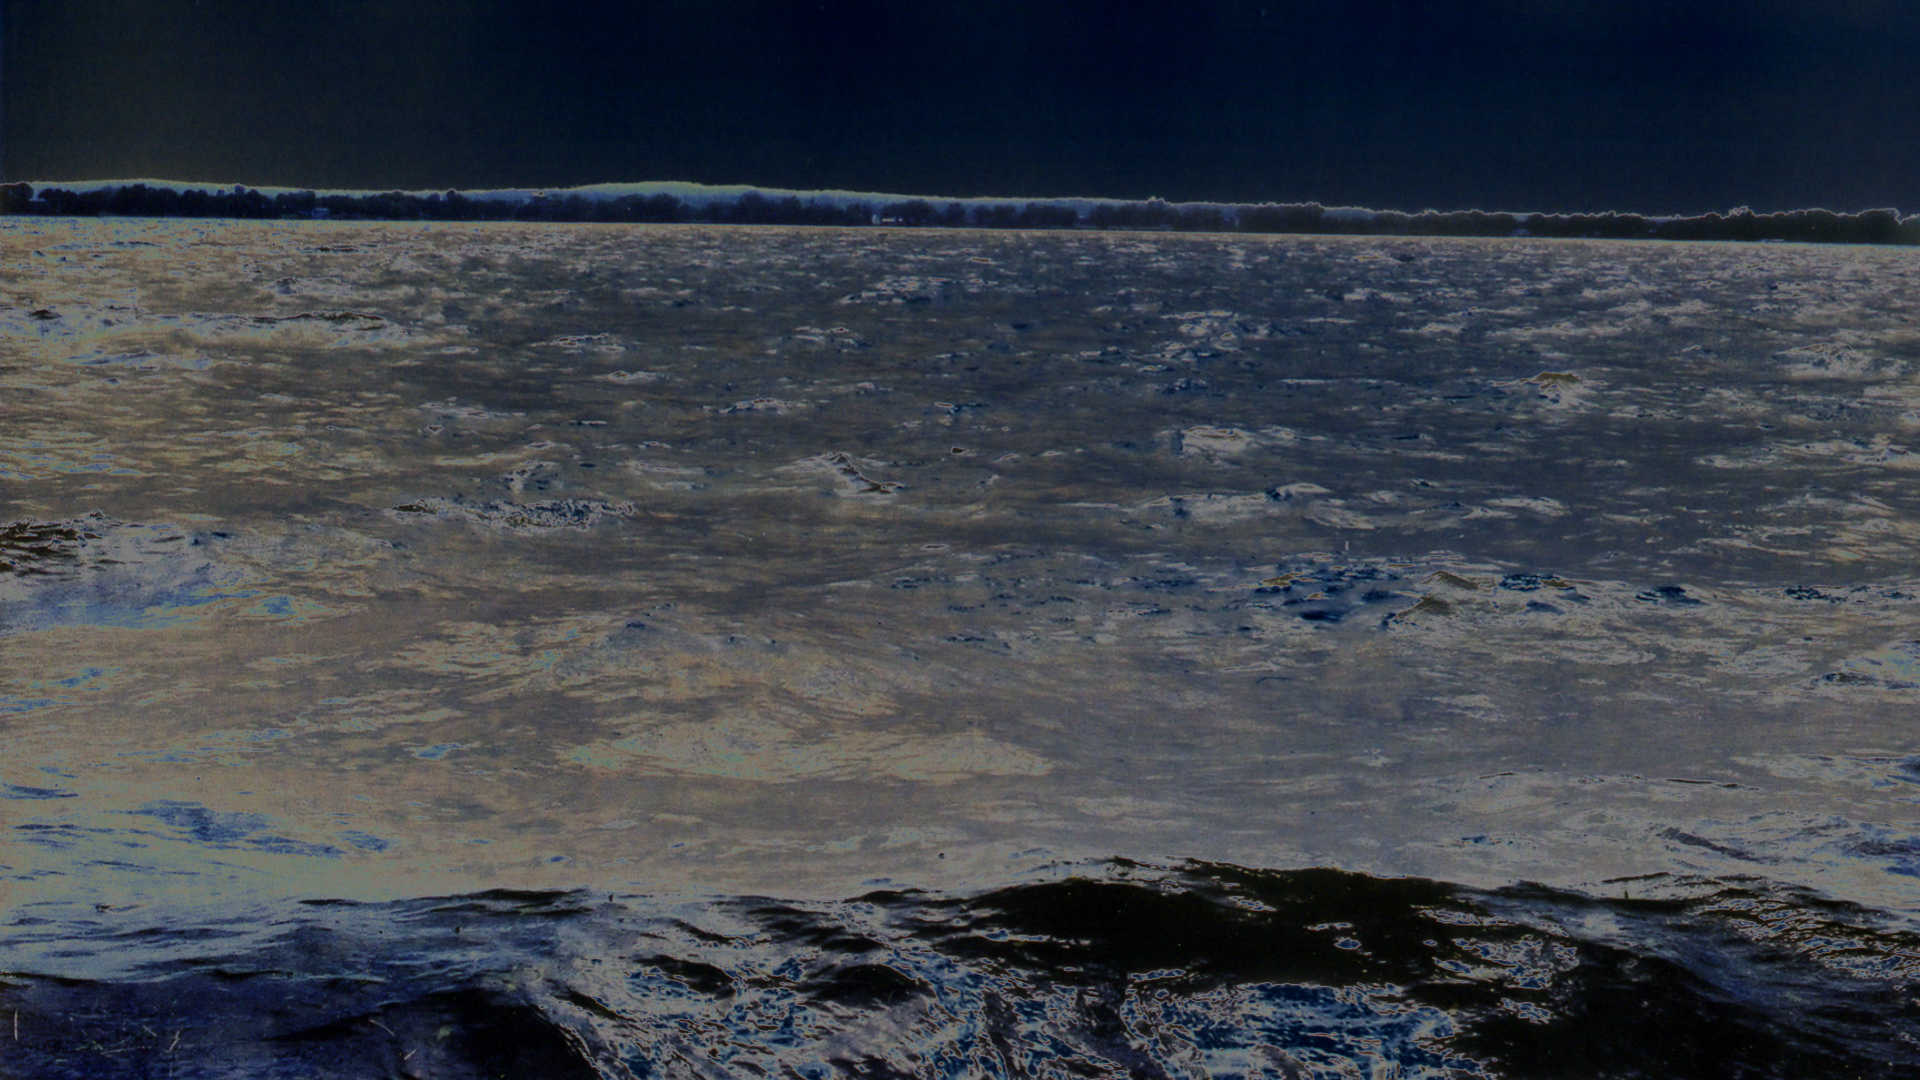
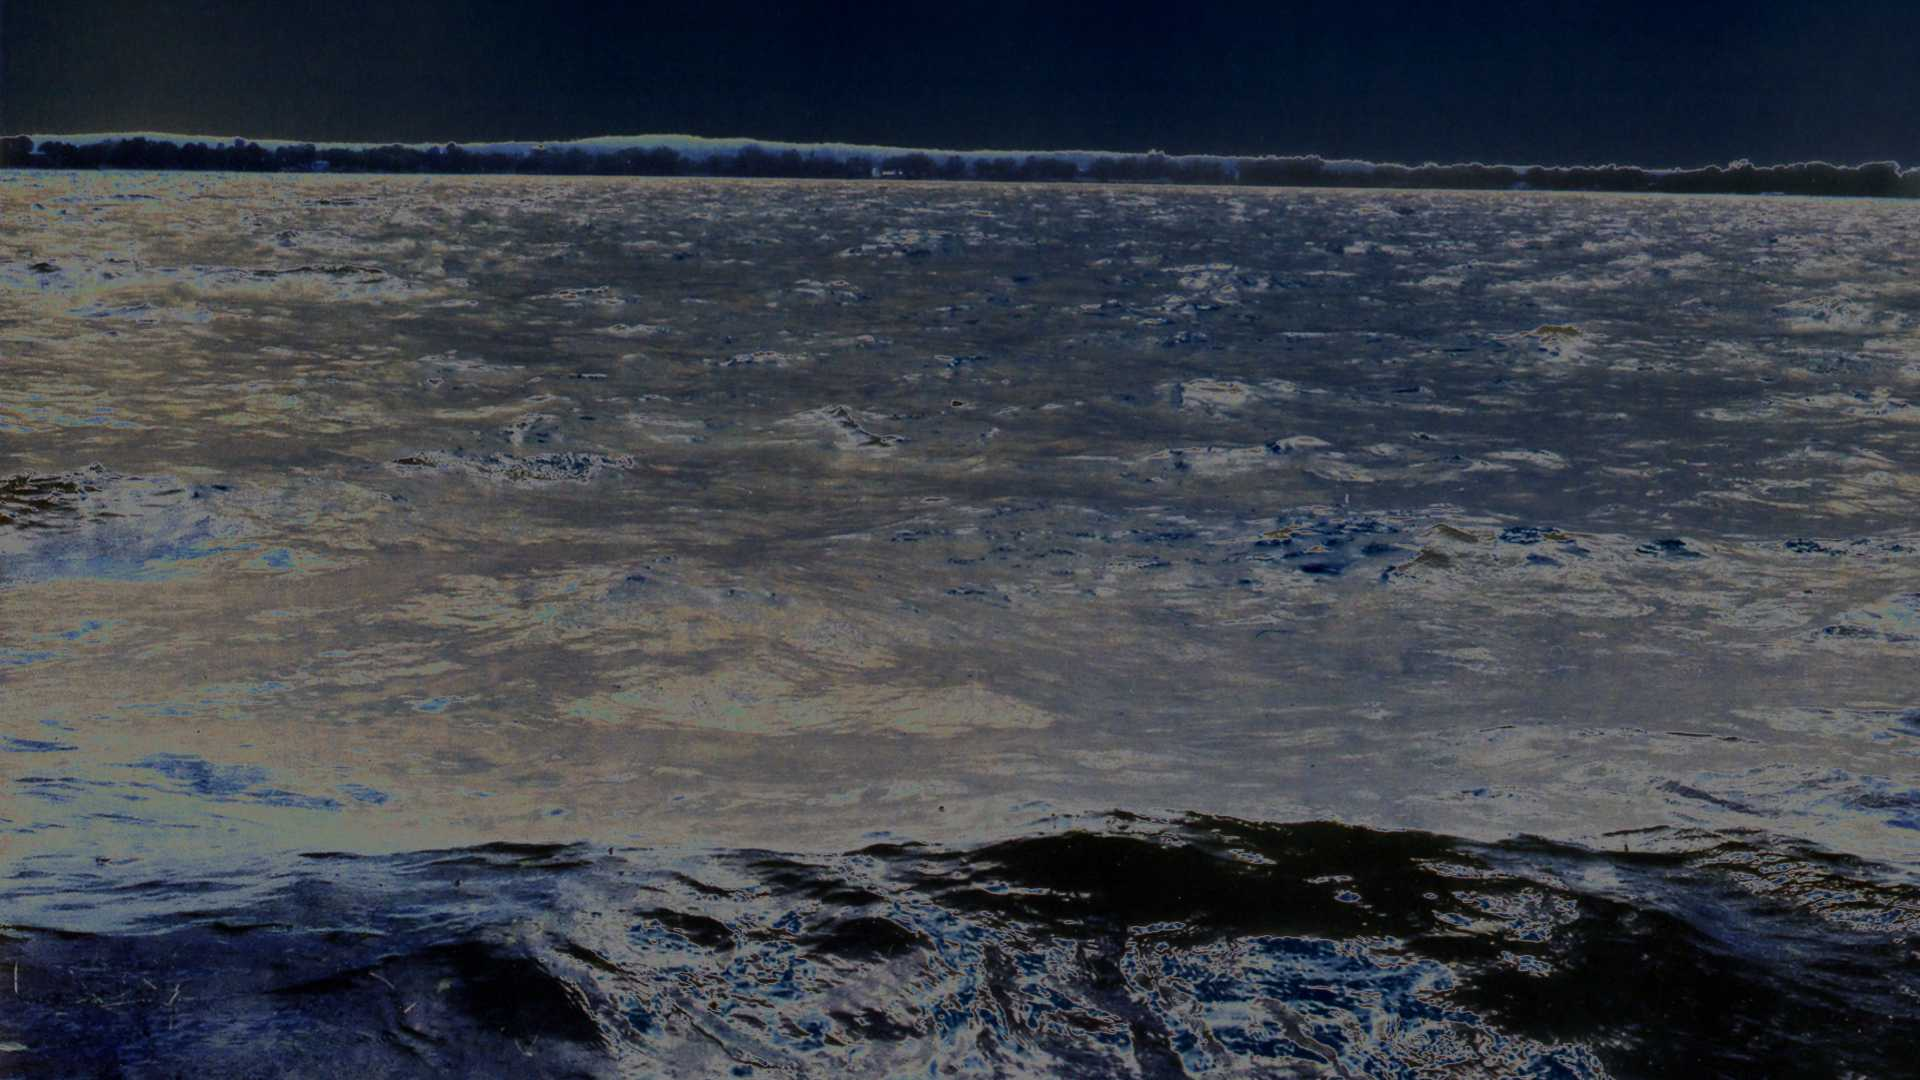
updating bg images and renaming

diff --git a/index.html b/index.html
@@ -49,7 +49,7 @@
     <link rel="stylesheet" href="sites/all/themes/mothership/mothership/css/mothership-layout.css">
     <link rel="stylesheet" href="sites/all/themes/mothership/mothership/css/mothership.css">
     <link rel="stylesheet" href="sites/all/themes/twinspace/css/style.css">
-    <style>html{background-image:url('sites/default/files/dynamicbg/DTS_Solitude-2.jpg');background-repeat:no-repeat;background-attachment:fixed;background-position:center top;-webkit-background-size:cover;-moz-background-size:cover;-o-background-size:cover;background-size:cover;}
+    <style>html{background-image:url('sites/default/files/dynamicbg/pearlwave1-BG-3.jpg');background-repeat:no-repeat;background-attachment:fixed;background-position:center top;-webkit-background-size:cover;-moz-background-size:cover;-o-background-size:cover;background-size:cover;}
 </style> <!--[if lt IE 9]>
     <script src="sites/all/themes/mothership/mothership/js/respond.min.js"></script>    <![endif]-->
     <!--[if lt IE 9]>
